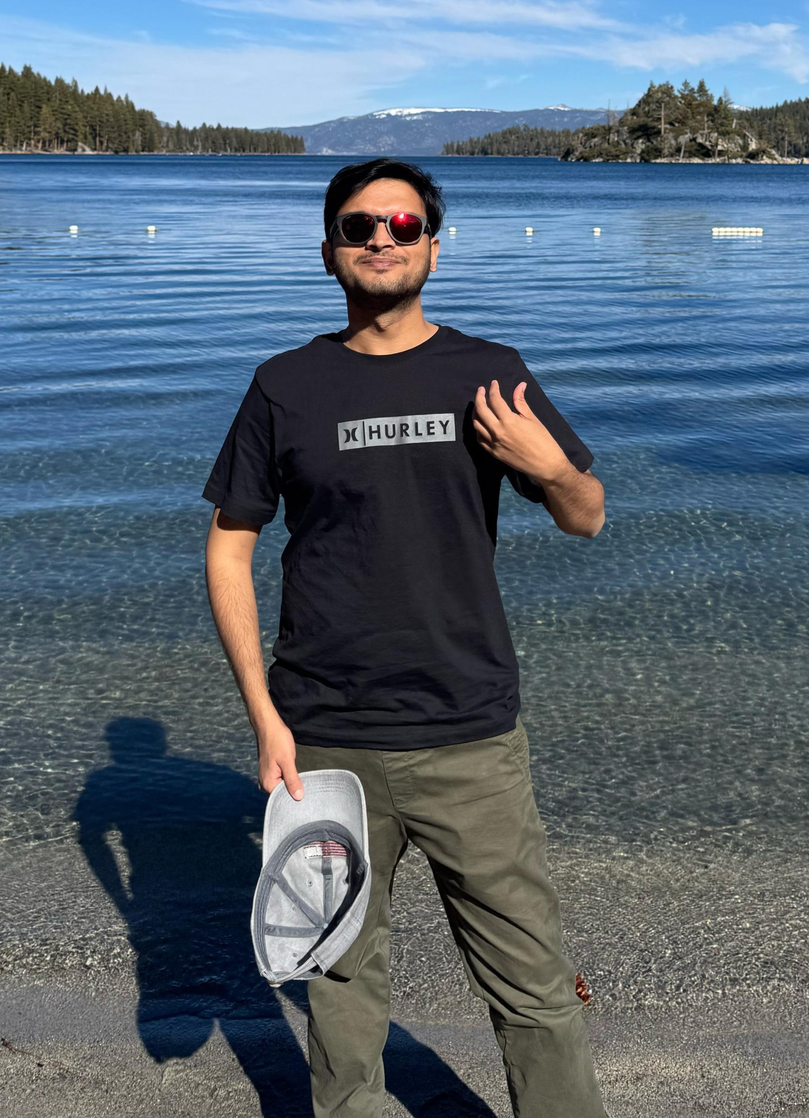
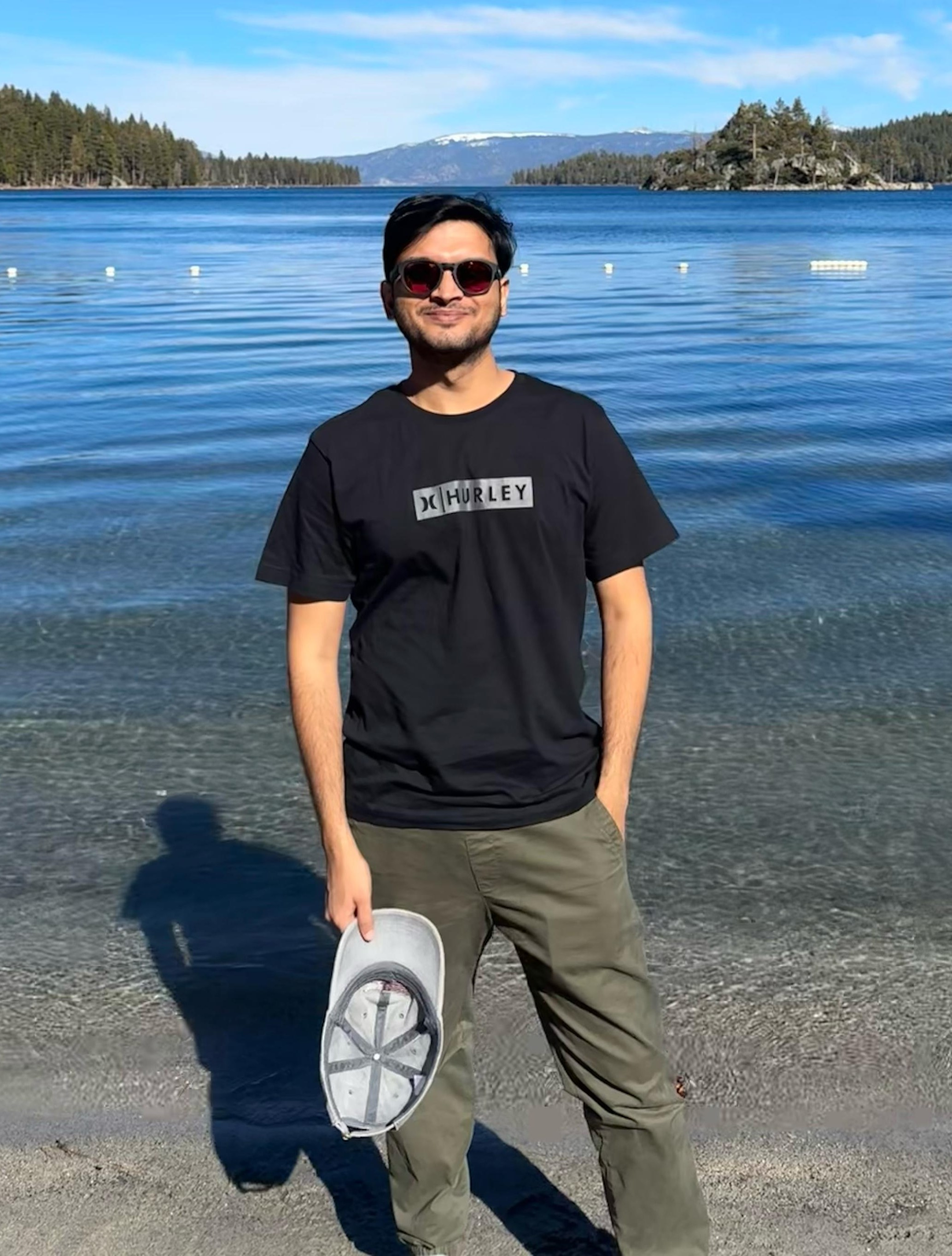
updates almost all fixes

diff --git a/app/components/About.tsx b/app/components/About.tsx
@@ -95,41 +95,41 @@ export default function About() {
 
         {/* Right Side (Image) */}
         <motion.div
-  className="relative flex justify-center" // ✅ Added `relative` here
-  initial={{ opacity: 0, scale: 0.9 }}
-  whileInView={{ opacity: 1, scale: 1 }}
-  viewport={{ once: true }}
-  transition={{ duration: 0.8, ease: "easeOut" }}
->
-  {/* Ambient Blobs */}
-  <div className="absolute -top-20 -left-20 w-72 h-72 bg-blue-400/20 dark:bg-blue-500/15 rounded-full blur-3xl z-0"></div>
-  <div className="absolute bottom-0 right-0 w-96 h-96 bg-purple-500/10 dark:bg-purple-600/15 rounded-full blur-[120px] z-0"></div>
+          className="relative flex justify-center" // ✅ Added `relative` here
+          initial={{ opacity: 0, scale: 0.9 }}
+          whileInView={{ opacity: 1, scale: 1 }}
+          viewport={{ once: true }}
+          transition={{ duration: 0.8, ease: "easeOut" }}
+        >
+          {/* Ambient Blobs */}
+          <div className="absolute -top-20 -left-20 w-72 h-72 bg-blue-400/20 dark:bg-blue-500/15 rounded-full blur-3xl z-0"></div>
+          <div className="absolute bottom-0 right-0 w-96 h-96 bg-purple-500/10 dark:bg-purple-600/15 rounded-full blur-[120px] z-0"></div>
 
-  {/* Image Container */}
-  <div className="flex items-center justify-center h-full z-10">
-    <div className="relative w-[500px] h-auto group flex items-center justify-center">
-      {/* Enhanced Glow Layer */}
-      <div className="absolute inset-0 bg-gradient-to-r from-blue-400/20 via-purple-400/15 to-blue-400/20 dark:from-blue-600/20 dark:via-purple-500/15 dark:to-blue-600/20 rounded-xl blur-3xl group-hover:blur-4xl transition-all duration-500"></div>
-      
-      {/* Secondary Glow for Added Depth */}
-      <div className="absolute inset-0 scale-90 bg-gradient-to-br from-[#abdae1]/10 via-transparent to-[#d8b4fe]/10 dark:from-[#93c5fd]/10 dark:via-transparent dark:to-[#d8b4fe]/15 rounded-xl blur-2xl opacity-70 group-hover:opacity-90 transition-all duration-500"></div>
+          {/* Image Container */}
+          <div className="flex items-center justify-center h-full z-10">
+            <div className="relative w-[500px] h-auto group flex items-center justify-center">
+              {/* Enhanced Glow Layer */}
+              <div className="absolute inset-0 bg-gradient-to-r from-[#4079af]/20 via-[#5c9db1]/15 to-[#79d2ff]/20 dark:from-[#3a6a8a]/20 dark:via-[#4d8299]/15 dark:to-[#79d2ff]/20 rounded-xl blur-3xl group-hover:blur-4xl transition-all duration-500"></div>
 
-      {/* Image */}
-      <Image
-        src="/images/profile_pic_2.jpeg"
-        alt="My profile picture"
-        title="My profile picture"
-        width={500}
-        height={700}
-        className="w-[70%] h-auto object-cover rounded-xl relative z-10 transition-all duration-500 group-hover:scale-105 shadow-xl
-             border border-white/15 dark:border-blue-500/20 dark:shadow-blue-900/10
-             dark:brightness-[0.75] dark:contrast-[1.05] dark:saturate-[0.95]
-             ring-1 ring-blue-100/20 dark:ring-blue-500/10"
-        priority
-      />
-    </div>
-  </div>
-</motion.div>
+              {/* Secondary Glow for Added Depth */}
+              <div className="absolute inset-0 scale-90 bg-gradient-to-br from-[#4079af]/10 via-transparent to-[#79d2ff]/10 dark:from-[#3a6a8a]/10 dark:via-transparent dark:to-[#79d2ff]/15 rounded-xl blur-2xl opacity-70 group-hover:opacity-90 transition-all duration-500"></div>
+
+              {/* Image */}
+              <Image
+                src="/images/profile_pic_2.jpeg"
+                alt="Me @LakeTahoe"
+                title="Me @LakeTahoe"
+                width={500}
+                height={700}
+                className="w-[70%] h-auto object-cover rounded-xl relative z-10 transition-all duration-500 group-hover:scale-105 shadow-xl
+                    border border-white/15 dark:border-blue-500/20 dark:shadow-blue-900/10
+                    dark:brightness-[0.75] dark:contrast-[1.05] dark:saturate-[0.95]
+                    ring-1 ring-blue-100/20 dark:ring-blue-500/10"
+                priority
+              />
+            </div>
+          </div>
+        </motion.div>
 
       </div>
 

diff --git a/app/page.tsx b/app/page.tsx
@@ -269,6 +269,37 @@ export default function Home() {
     document.documentElement.classList.toggle('dark', isDark);
   }, []);
 
+  // Scroll to top on page refresh/load
+  useEffect(() => {
+    // Check if this is a page refresh by looking at the navigation type
+    if (window.performance) {
+      const navEntries = performance.getEntriesByType('navigation');
+      if (navEntries.length > 0 && (navEntries[0] as PerformanceNavigationTiming).type === 'reload') {
+        // This is a refresh, scroll to top
+        window.scrollTo(0, 0);
+      } else {
+        // Alternative method for browsers that don't support the above
+        window.scrollTo(0, 0);
+      }
+    } else {
+      // Fallback for browsers without the Performance API
+      window.scrollTo(0, 0);
+    }
+
+    // Also handle hash in URL (e.g., example.com/#experience)
+    if (window.location.hash) {
+      // If there's a hash, we'll need to scroll to that element after a small delay
+      setTimeout(() => {
+        const element = document.getElementById(window.location.hash.substring(1));
+        if (element) {
+          element.scrollIntoView({ behavior: 'smooth' });
+        } else {
+          window.scrollTo(0, 0);
+        }
+      }, 100);
+    }
+  }, []);
+
   const toggleDarkMode = () => {
     const newDarkMode = !darkMode;
     setDarkMode(newDarkMode);
@@ -963,6 +994,8 @@ export default function Home() {
     // Now toggle the collapse state
     setProjectsCollapsed(!projectsCollapsed);
   };
+
+  
   
   
 
@@ -1402,13 +1435,13 @@ export default function Home() {
             <div
               className="
               no-scrollbar inline-flex gap-6
-              px-6 py-2
-              overflow-x-auto 
-              backdrop-blur-md
-              rounded-full
-              bg-white/80 dark:bg-gray-900/50
-              border border-gray-200/50 dark:border-gray-700/50
-              shadow-lg shadow-gray-200/20 dark:shadow-gray-950/20
+                px-6 py-2
+                overflow-x-auto 
+                backdrop-blur-md
+                rounded-full
+                bg-white/80 dark:bg-gray-900/50
+                border border-gray-200/50 dark:border-gray-700/50
+                shadow-lg shadow-gray-200/20 dark:shadow-gray-950/20
               w-full md:w-auto md:mx-auto max-w-[95vw]
               mobile-tabs-container
               "
@@ -1501,7 +1534,7 @@ export default function Home() {
                         hover:translate-y-[-3px]
                         snap-start
                         flex-shrink-0
-                        max-w-[90vw] sm:max-w-[330px] md:max-w-[330px]
+                        max-w-[90vw] sm:max-w-[400px] md:max-w-[450px]
                         min-h-[380px]
                   flex flex-col
                   relative
@@ -1854,5 +1887,6 @@ export default function Home() {
     </main>
   );
 }
+
 
 

diff --git a/app/components/Hero.tsx b/app/components/Hero.tsx
@@ -261,7 +261,7 @@ export default function Hero() {
             alt="My profile picture"
             width={150}
             height={150}
-            className="w-full h-full object-contain rounded-full relative z-10 transition-all duration-500 group-hover:scale-105 
+            className="mt-[48px] w-full h-full object-contain rounded-full relative z-10 transition-all duration-500 group-hover:scale-105 
               shadow-lg 
               border-[3px] border-white/40 dark:border-blue-500/30 
               dark:shadow-blue-900/20
@@ -272,7 +272,7 @@ export default function Hero() {
         </motion.div>
 
         <motion.span 
-          className="inline-flex items-center bg-gradient-to-r from-blue-500/5 to-purple-500/5 dark:from-blue-500/10 dark:to-purple-500/10 text-gray-600 dark:text-gray-300 text-sm font-medium rounded-full px-4 py-1.5 border border-blue-100/50 dark:border-blue-800/50"
+          className="mt-[14px] inline-flex items-center bg-gradient-to-r from-blue-500/5 to-purple-500/5 dark:from-blue-500/10 dark:to-purple-500/10 text-gray-600 dark:text-gray-300 text-sm font-medium rounded-full px-4 py-1.5 border border-blue-100/50 dark:border-blue-800/50"
           initial={{ scale: 0.95 }}
           animate={{ scale: 1 }}
           transition={{ duration: 0.5, delay: 0.2 }}
@@ -281,7 +281,7 @@ export default function Hero() {
         </motion.span>
         
         <motion.h1
-          className="text-4xl font-bold bg-gradient-to-r from-gray-900 via-gray-800 to-gray-900 dark:from-white dark:via-gray-100 dark:to-white bg-clip-text text-transparent"
+          className="text-4xl p-[10px] font-bold bg-gradient-to-r from-gray-900 via-gray-800 to-gray-900 dark:from-white dark:via-gray-100 dark:to-white bg-clip-text text-transparent"
           initial={{ opacity: 0, y: 20 }}
           animate={{ opacity: 1, y: 0 }}
           transition={{ duration: 0.8, delay: 0.3 }}
